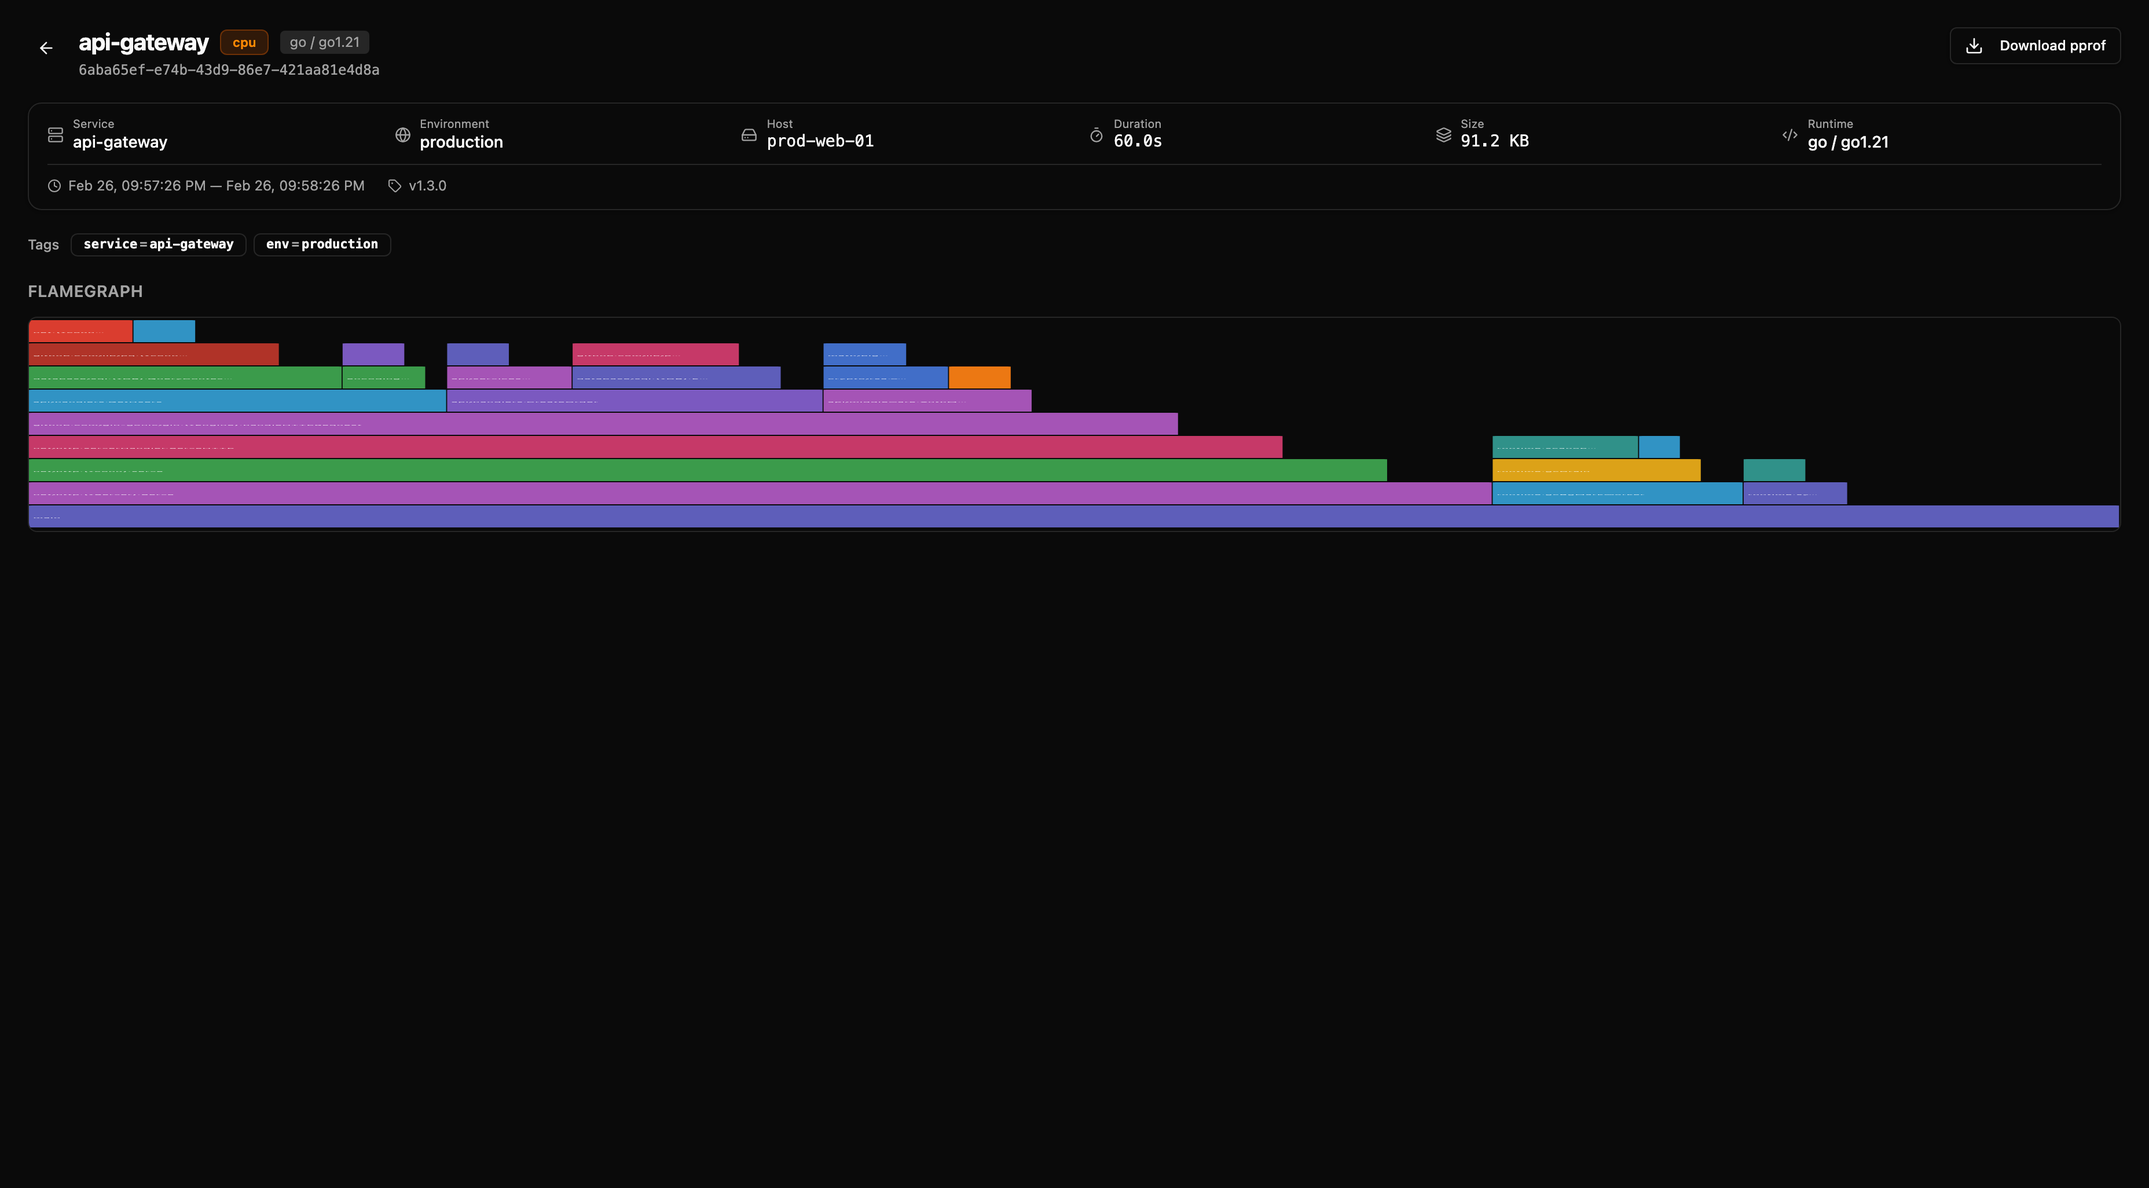
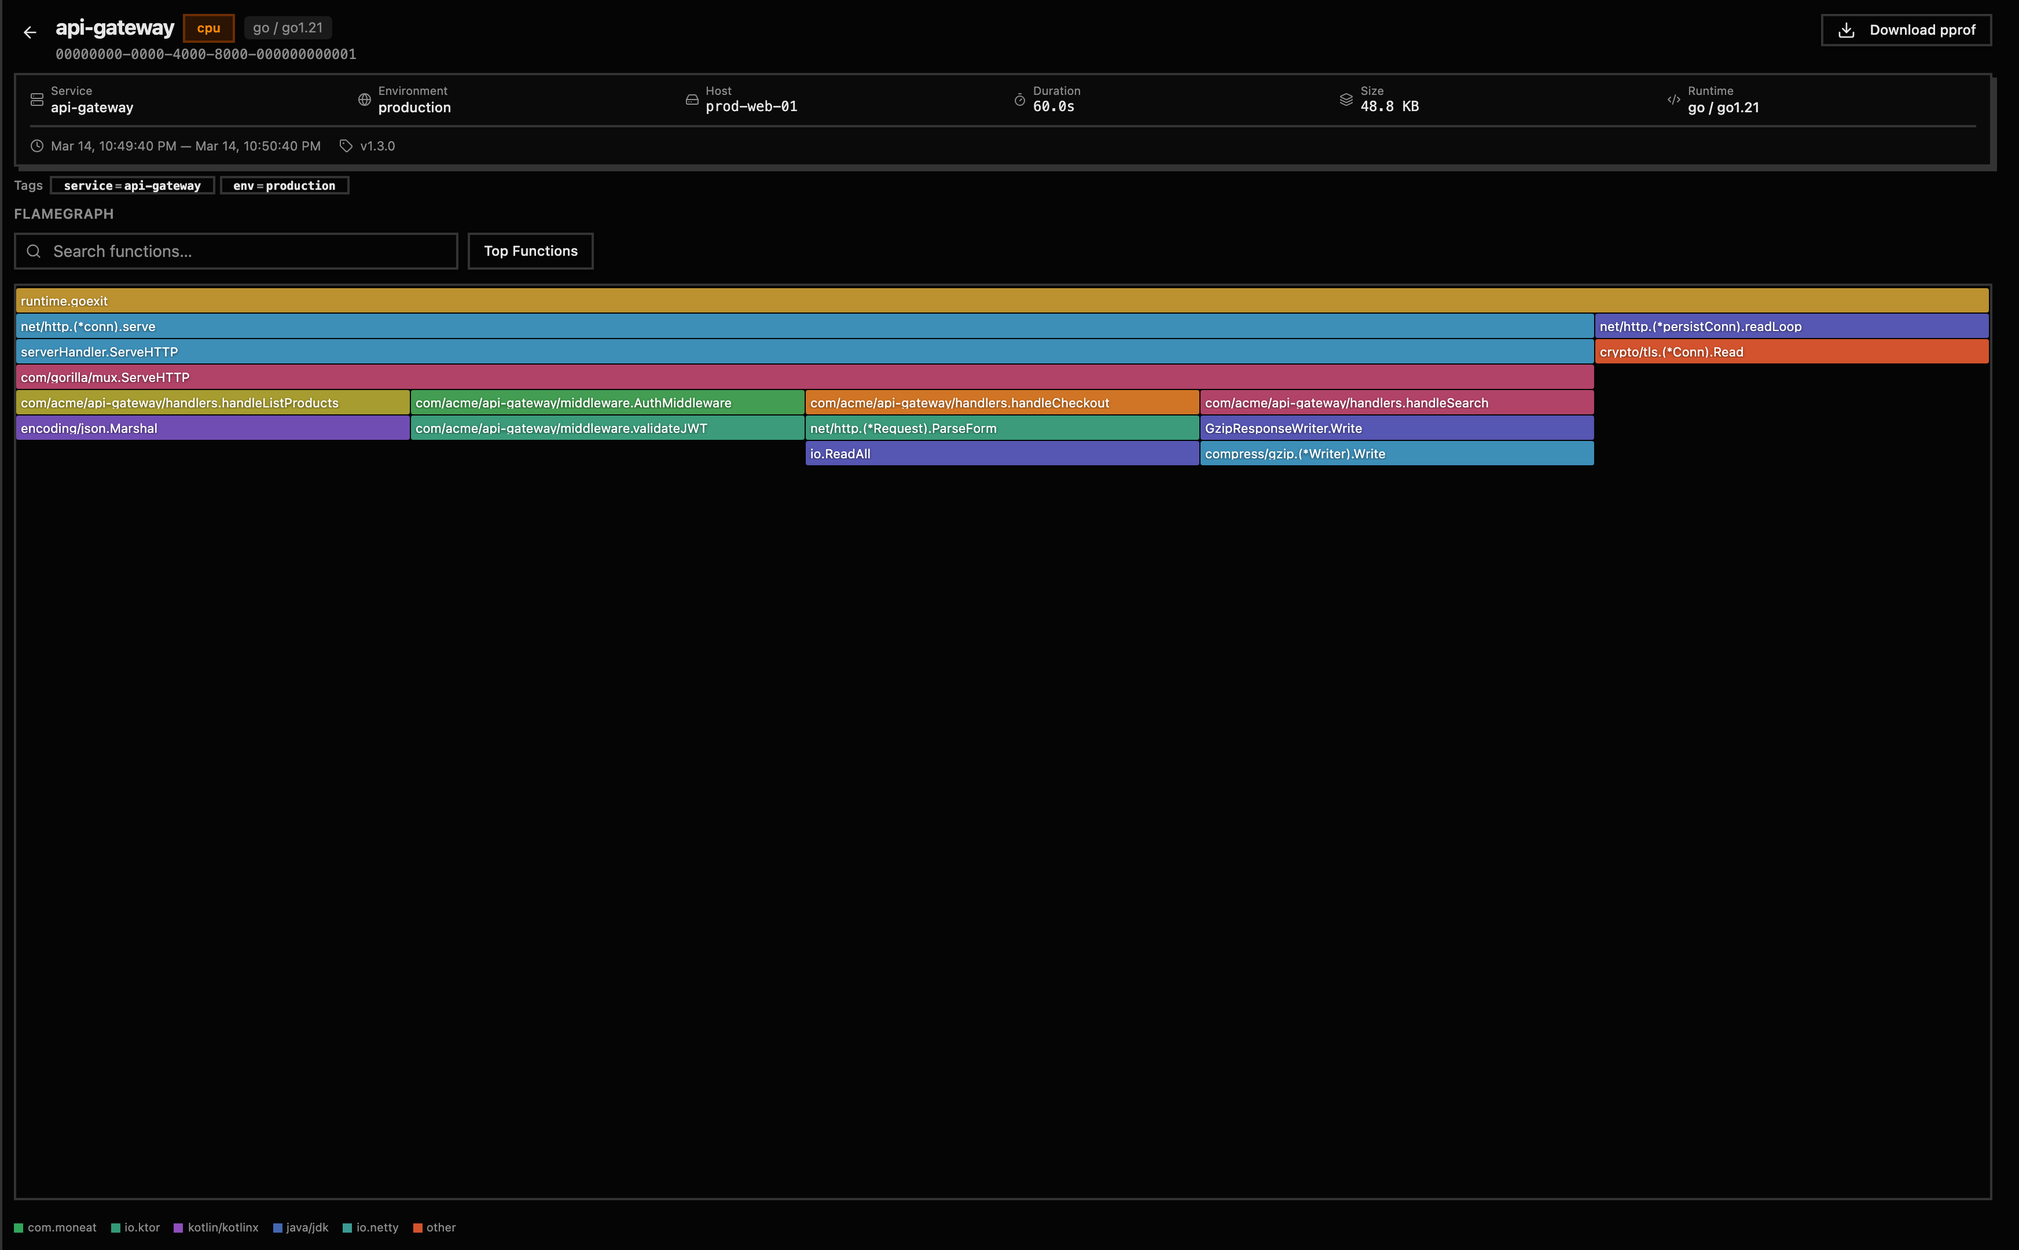
docs: update screenshots

Changed region(s): [[0.0, 0.0, 1.0, 0.4678], [0.0, 0.9357, 0.0312, 0.9981], [0.0938, 0.9669, 0.125, 0.9981]]

diff --git a/scripts/take-screenshots.js b/scripts/take-screenshots.js
@@ -75,23 +75,38 @@ const VIEWPORT = { width: 1920, height: 1080 };
 // Names match page/tab labels for consistency
 const SCREENSHOTS = [
   // ─── Navbar pages ─────────────────────────────────────────────────────
-  { name: 'overview', description: 'Overview / Dashboard', path: '/', waitFor: 'text=Recent Issues', viewport: VIEWPORT },
+  { name: 'dashboard', description: 'Dashboard overview', path: '/', waitFor: 'text=Recent Issues', viewport: VIEWPORT },
   { name: 'issues', description: 'Issues', path: '/issues', waitFor: 'text=Issues', viewport: VIEWPORT },
   { name: 'performance', description: 'Performance', path: '/performance', waitFor: 'text=Performance', viewport: VIEWPORT },
   { name: 'logs', description: 'Logs', path: '/logs', waitFor: 'text=Logs', viewport: VIEWPORT },
-  { name: 'profiles', description: 'Profiles', path: '/profiles', waitFor: 'text=Profiles', viewport: VIEWPORT },
-  { name: 'monitoring', description: 'Monitoring (Hosts)', path: '/monitoring', waitFor: 'text=Monitoring', viewport: VIEWPORT },
+  {
+    name: 'profiles',
+    description: 'Continuous profiling flamegraph',
+    navigate: async (page) => {
+      await page.goto(`${BASE_URL}/profiles`, { waitUntil: 'networkidle' });
+      await page.waitForTimeout(1500);
+      const link = page.locator('a[href^="/profiles/"]').first();
+      if ((await link.count()) > 0) {
+        await link.click();
+        await page.waitForLoadState('networkidle');
+        await page.waitForTimeout(2000);
+      }
+    },
+    waitFor: 'text=Flamegraph',
+    viewport: VIEWPORT,
+  },
   { name: 'uptime', description: 'Uptime', path: '/uptime', waitFor: 'text=Uptime', viewport: VIEWPORT },
-  { name: 'status-pages', description: 'Status Pages list', path: '/status-pages', waitFor: 'text=Status', viewport: VIEWPORT },
+  { name: 'status-pages', description: 'Status Pages', path: '/status-pages', waitFor: 'text=Status', viewport: VIEWPORT },
+  { name: 'status-page-public', description: 'Public status page', path: '/s/acme-status', waitFor: 'text=Status', viewport: VIEWPORT },
   { name: 'dashboards', description: 'Dashboards', path: '/dashboards', waitFor: 'text=Dashboards', viewport: VIEWPORT },
   { name: 'replays', description: 'Replays', path: '/replays', waitFor: 'text=Replays', viewport: VIEWPORT },
+  { name: 'session-replay', description: 'Session replay (alias for replays)', path: '/replays', waitFor: 'text=Replays', viewport: VIEWPORT },
   { name: 'feedback', description: 'Feedback', path: '/feedback', waitFor: 'text=Feedback', viewport: VIEWPORT },
   { name: 'releases', description: 'Releases', path: '/releases', waitFor: 'text=Releases', viewport: VIEWPORT },
   { name: 'ai', description: 'AI', path: '/ai', waitFor: 'text=AI', viewport: VIEWPORT },
   { name: 'security', description: 'Security', path: '/security', waitFor: 'text=Security', viewport: VIEWPORT },
   { name: 'synthetics', description: 'Synthetics', path: '/synthetics', waitFor: 'text=Synthetics', viewport: VIEWPORT },
   { name: 'analytics', description: 'Analytics', path: '/analytics', waitFor: 'text=Analytics', viewport: VIEWPORT },
-  { name: 'projects', description: 'Projects', path: '/projects', waitFor: 'text=Projects', viewport: VIEWPORT },
 
   // ─── On-Call tabs ─────────────────────────────────────────────────────
   { name: 'on-call-overview', description: 'On-Call Overview', path: '/on-call', waitFor: 'text=On-Call', viewport: VIEWPORT },
@@ -100,174 +115,12 @@ const SCREENSHOTS = [
   { name: 'on-call-alerts', description: 'On-Call Alerts', path: '/on-call/incidents', waitFor: 'text=Alerts', viewport: VIEWPORT },
   { name: 'on-call-incidents', description: 'On-Call Incidents', path: '/on-call/declared-incidents', waitFor: 'text=Incidents', viewport: VIEWPORT },
 
-  // ─── Monitoring tabs ──────────────────────────────────────────────────
+  // ─── Monitoring ───────────────────────────────────────────────────────
   { name: 'monitoring-hosts', description: 'Monitoring Hosts', path: '/monitoring', waitFor: 'text=Hosts', viewport: VIEWPORT },
-  { name: 'monitoring-containers', description: 'Monitoring Containers', path: '/monitoring/containers', waitFor: 'text=Containers', viewport: VIEWPORT },
-  { name: 'monitoring-processes', description: 'Monitoring Processes', path: '/monitoring/processes', waitFor: 'text=Processes', viewport: VIEWPORT },
-  { name: 'monitoring-network', description: 'Monitoring Network', path: '/monitoring/network', waitFor: 'text=Network', viewport: VIEWPORT },
-  { name: 'monitoring-events', description: 'Monitoring Events', path: '/monitoring/events', waitFor: 'text=Events', viewport: VIEWPORT },
-  { name: 'monitoring-kubernetes', description: 'Monitoring Kubernetes', path: '/monitoring/kubernetes', waitFor: 'text=Kubernetes', viewport: VIEWPORT },
-  { name: 'monitoring-databases', description: 'Monitoring Databases', path: '/monitoring/databases', waitFor: 'text=Databases', viewport: VIEWPORT },
-  { name: 'monitoring-debugger', description: 'Monitoring Debugger', path: '/monitoring/debugger', waitFor: 'text=Debugger', viewport: VIEWPORT },
-  { name: 'monitoring-network-devices', description: 'Monitoring Network Devices', path: '/monitoring/network-devices', waitFor: 'text=Network Devices', viewport: VIEWPORT },
-  { name: 'monitoring-sbom', description: 'Monitoring SBOM', path: '/monitoring/sbom', waitFor: 'text=SBOM', viewport: VIEWPORT },
-
-  // ─── Status page detail tabs ─────────────────────────────────────────
-  {
-    name: 'status-page-overview',
-    description: 'Status Page Overview tab',
-    navigate: async (page) => {
-      await page.goto(`${BASE_URL}/status-pages`, { waitUntil: 'networkidle' });
-      await page.waitForTimeout(1500);
-      const link = page.locator('a[href^="/status-pages/"]').first();
-      if ((await link.count()) > 0) {
-        await link.click();
-        await page.waitForLoadState('networkidle');
-        await page.waitForTimeout(1500);
-        const tab = page.locator('button[value="overview"]').first();
-        if ((await tab.count()) > 0) await tab.click();
-      }
-    },
-    waitFor: 'text=Overview',
-    viewport: VIEWPORT,
-  },
-  {
-    name: 'status-page-monitors',
-    description: 'Status Page Monitors tab',
-    navigate: async (page) => {
-      await page.goto(`${BASE_URL}/status-pages`, { waitUntil: 'networkidle' });
-      await page.waitForTimeout(1500);
-      const link = page.locator('a[href^="/status-pages/"]').first();
-      if ((await link.count()) > 0) {
-        await link.click();
-        await page.waitForLoadState('networkidle');
-        await page.waitForTimeout(1500);
-        const tab = page.locator('button[value="monitors"]').first();
-        if ((await tab.count()) > 0) await tab.click();
-      }
-    },
-    waitFor: 'text=Monitors',
-    viewport: VIEWPORT,
-  },
-  {
-    name: 'status-page-incidents',
-    description: 'Status Page Incidents tab',
-    navigate: async (page) => {
-      await page.goto(`${BASE_URL}/status-pages`, { waitUntil: 'networkidle' });
-      await page.waitForTimeout(1500);
-      const link = page.locator('a[href^="/status-pages/"]').first();
-      if ((await link.count()) > 0) {
-        await link.click();
-        await page.waitForLoadState('networkidle');
-        await page.waitForTimeout(1500);
-        const tab = page.locator('button[value="incidents"]').first();
-        if ((await tab.count()) > 0) await tab.click();
-      }
-    },
-    waitFor: 'text=Incidents',
-    viewport: VIEWPORT,
-  },
-  {
-    name: 'status-page-domains',
-    description: 'Status Page Domains tab',
-    navigate: async (page) => {
-      await page.goto(`${BASE_URL}/status-pages`, { waitUntil: 'networkidle' });
-      await page.waitForTimeout(1500);
-      const link = page.locator('a[href^="/status-pages/"]').first();
-      if ((await link.count()) > 0) {
-        await link.click();
-        await page.waitForLoadState('networkidle');
-        await page.waitForTimeout(1500);
-        const tab = page.locator('button[value="domains"]').first();
-        if ((await tab.count()) > 0) await tab.click();
-      }
-    },
-    waitFor: 'text=Domains',
-    viewport: VIEWPORT,
-  },
-
-  // ─── Monitoring host detail tabs ─────────────────────────────────────
-  {
-    name: 'monitoring-host-overview',
-    description: 'Monitoring Host Overview tab',
-    navigate: async (page) => {
-      await page.goto(`${BASE_URL}/monitoring`, { waitUntil: 'networkidle' });
-      await page.waitForTimeout(1500);
-      const hostLink = page.locator('a[href^="/monitoring/hosts/"]').first();
-      if ((await hostLink.count()) > 0) {
-        await hostLink.click();
-        await page.waitForLoadState('networkidle');
-        await page.waitForTimeout(1500);
-        const tab = page.locator('button[value="overview"]').first();
-        if ((await tab.count()) > 0) await tab.click();
-      }
-    },
-    waitFor: 'text=Overview',
-    viewport: VIEWPORT,
-  },
-  {
-    name: 'monitoring-host-containers',
-    description: 'Monitoring Host Containers tab',
-    navigate: async (page) => {
-      await page.goto(`${BASE_URL}/monitoring`, { waitUntil: 'networkidle' });
-      await page.waitForTimeout(1500);
-      const hostLink = page.locator('a[href^="/monitoring/hosts/"]').first();
-      if ((await hostLink.count()) > 0) {
-        await hostLink.click();
-        await page.waitForLoadState('networkidle');
-        await page.waitForTimeout(1500);
-        const tab = page.locator('button[value="containers"]').first();
-        if ((await tab.count()) > 0) await tab.click();
-      }
-    },
-    waitFor: 'text=Containers',
-    viewport: VIEWPORT,
-  },
-  {
-    name: 'monitoring-host-network',
-    description: 'Monitoring Host Network tab',
-    navigate: async (page) => {
-      await page.goto(`${BASE_URL}/monitoring`, { waitUntil: 'networkidle' });
-      await page.waitForTimeout(1500);
-      const hostLink = page.locator('a[href^="/monitoring/hosts/"]').first();
-      if ((await hostLink.count()) > 0) {
-        await hostLink.click();
-        await page.waitForLoadState('networkidle');
-        await page.waitForTimeout(1500);
-        const tab = page.locator('button[value="network"]').first();
-        if ((await tab.count()) > 0) await tab.click();
-      }
-    },
-    waitFor: 'text=Network',
-    viewport: VIEWPORT,
-  },
-  {
-    name: 'monitoring-host-alerts',
-    description: 'Monitoring Host Alerts tab',
-    navigate: async (page) => {
-      await page.goto(`${BASE_URL}/monitoring`, { waitUntil: 'networkidle' });
-      await page.waitForTimeout(1500);
-      const hostLink = page.locator('a[href^="/monitoring/hosts/"]').first();
-      if ((await hostLink.count()) > 0) {
-        await hostLink.click();
-        await page.waitForLoadState('networkidle');
-        await page.waitForTimeout(1500);
-        const tab = page.locator('button[value="alerts"]').first();
-        if ((await tab.count()) > 0) await tab.click();
-      }
-    },
-    waitFor: 'text=Alerts',
-    viewport: VIEWPORT,
-  },
-
-  // ─── Public status page (for landing/marketing) ─────────────────────────
-  { name: 'status-page-public', description: 'Public status page', path: '/s/acme-status', waitFor: 'text=Status', viewport: VIEWPORT },
 
   // ─── Legacy names for landing page compatibility ──────────────────────
-  { name: 'dashboard', description: 'Dashboard (alias for overview)', path: '/', waitFor: 'text=Recent Issues', viewport: VIEWPORT },
   { name: 'error-tracking', description: 'Error tracking (alias for issues)', path: '/issues', waitFor: 'text=Issues', viewport: VIEWPORT },
   { name: 'log-management', description: 'Log management (alias for logs)', path: '/logs', waitFor: 'text=Logs', viewport: VIEWPORT },
-  { name: 'session-replay', description: 'Session replay (alias for replays)', path: '/replays', waitFor: 'text=Replays', viewport: VIEWPORT },
   { name: 'containers', description: 'Containers (alias)', path: '/monitoring/containers', waitFor: 'text=Containers', viewport: VIEWPORT },
   { name: 'escalation-policies', description: 'Escalation policies (alias)', path: '/on-call/escalation-policies', waitFor: 'text=Escalation Policies', viewport: VIEWPORT },
   {

diff --git a/dashboard/src/routes/public-status-pages.tsx b/dashboard/src/routes/public-status-pages.tsx
@@ -29,7 +29,7 @@ const config: FeaturePageConfig = {
   iconBg: 'bg-cyan-500/10',
   gradient: 'from-cyan-500 to-teal-400',
   accentColor: 'text-cyan-400',
-  screenshot: '/screenshots/status-pages.png',
+  screenshot: '/screenshots/status-page-public.png',
   screenshotAlt: 'Public status page showing service health and uptime history',
   subFeatures: [
     {icon: Globe, title: 'Custom Domains', description: 'Host your status page on your own domain like status.yourapp.com with automatic SSL.', iconColor: 'text-cyan-400'},

diff --git a/dashboard/src/components/landing/VariantA.tsx b/dashboard/src/components/landing/VariantA.tsx
@@ -209,7 +209,7 @@ const secondaryFeatures: Feature[] = [
     gradient: 'from-cyan-500 to-teal-400',
     iconBg: 'bg-cyan-500/10',
     iconColor: 'text-cyan-400',
-    mock: <img src="/screenshots/status-pages.png" alt="Public status page showing service health and incidents" className="w-full h-full object-cover" />,
+    mock: <img src="/screenshots/status-page-public.png" alt="Public status page showing service health and incidents" className="w-full h-full object-cover" />,
   },
   {
     icon: Phone,

diff --git a/scripts/update-landing-screenshots.js b/scripts/update-landing-screenshots.js
@@ -38,7 +38,7 @@ const SCREENSHOT_MAPPING = {
     alt: 'Uptime monitoring with status checks and availability metrics',
   },
   'StatusPagesMock': {
-    screenshot: 'status-pages.png',
+    screenshot: 'status-page-public.png',
     alt: 'Public status page showing service health and incidents',
   },
   'AlertingMock': {

diff --git a/README.md b/README.md
@@ -114,16 +114,17 @@ Works with `@sentry/browser`, `@sentry/node`, `@sentry/react`, `@sentry/nextjs`,
 
 ## Screenshots
 
+<details>
+<summary><b>View screenshots</b></summary>
+
+### Core Observability
+
 <p align="center">
-  <img src="dashboard/public/screenshots/dashboard.png" alt="Moneat Dashboard" width="800">
+  <img src="dashboard/public/screenshots/dashboard.png" alt="Dashboard Overview" width="800">
 </p>
 
 <p align="center">
-  <img src="dashboard/public/screenshots/error-tracking.png" alt="Error Monitoring" width="800">
-</p>
-
-<p align="center">
-  <img src="dashboard/public/screenshots/session-replay.png" alt="Session Replay" width="800">
+  <img src="dashboard/public/screenshots/issues.png" alt="Error Tracking / Issues" width="800">
 </p>
 
 <p align="center">
@@ -131,17 +132,102 @@ Works with `@sentry/browser`, `@sentry/node`, `@sentry/react`, `@sentry/nextjs`,
 </p>
 
 <p align="center">
-  <img src="dashboard/public/screenshots/log-management.png" alt="Log Management" width="800">
+  <img src="dashboard/public/screenshots/logs.png" alt="Log Management" width="800">
 </p>
 
 <p align="center">
-  <img src="dashboard/public/screenshots/uptime.png" alt="Uptime Monitoring" width="400">
-  <img src="dashboard/public/screenshots/status-pages.png" alt="Status Pages" width="400">
+  <img src="dashboard/public/screenshots/replays.png" alt="Session Replay" width="800">
 </p>
 
 <p align="center">
-  <img src="dashboard/public/screenshots/escalation-policies.png" alt="Escalation Policies" width="800">
+  <img src="dashboard/public/screenshots/profiles.png" alt="Continuous Profiling" width="800">
 </p>
+
+<p align="center">
+  <img src="dashboard/public/screenshots/dashboards.png" alt="Custom Dashboards" width="800">
+</p>
+
+### Infrastructure & Monitoring
+
+<p align="center">
+  <img src="dashboard/public/screenshots/monitoring-hosts.png" alt="Monitoring Hosts" width="800">
+</p>
+
+<p align="center">
+  <img src="dashboard/public/screenshots/uptime.png" alt="Uptime Monitoring" width="800">
+</p>
+
+<p align="center">
+  <img src="dashboard/public/screenshots/status-pages.png" alt="Status Pages" width="800">
+</p>
+
+### Enterprise: On-Call
+
+<p align="center">
+  <img src="dashboard/public/screenshots/on-call-overview.png" alt="On-Call Overview" width="800">
+</p>
+
+<p align="center">
+  <img src="dashboard/public/screenshots/on-call-schedules.png" alt="On-Call Schedules" width="800">
+</p>
+
+<p align="center">
+  <img src="dashboard/public/screenshots/on-call-escalation-policies.png" alt="Escalation Policies" width="800">
+</p>
+
+<p align="center">
+  <img src="dashboard/public/screenshots/on-call-alerts.png" alt="On-Call Alerts" width="800">
+</p>
+
+<p align="center">
+  <img src="dashboard/public/screenshots/on-call-incidents.png" alt="On-Call Incidents" width="800">
+</p>
+
+### Status Pages
+
+<p align="center">
+  <img src="dashboard/public/screenshots/status-pages.png" alt="Custom Status Page" width="800">
+</p>
+
+<p align="center">
+  <img src="dashboard/public/screenshots/status-page-public.png" alt="Public Status Page" width="800">
+</p>
+
+### Insights & Analytics
+
+<p align="center">
+  <img src="dashboard/public/screenshots/analytics.png" alt="Product Analytics" width="800">
+</p>
+
+<p align="center">
+  <img src="dashboard/public/screenshots/ai.png" alt="AI Observability" width="800">
+</p>
+
+<p align="center">
+  <img src="dashboard/public/screenshots/feedback.png" alt="User Feedback" width="800">
+</p>
+
+<p align="center">
+  <img src="dashboard/public/screenshots/releases.png" alt="Releases" width="800">
+</p>
+
+### APM & Tracing
+
+<p align="center">
+  <img src="dashboard/public/screenshots/apm-traces.png" alt="APM Traces" width="800">
+</p>
+
+### Security & Synthetics
+
+<p align="center">
+  <img src="dashboard/public/screenshots/security.png" alt="Security & SBOM" width="800">
+</p>
+
+<p align="center">
+  <img src="dashboard/public/screenshots/synthetics.png" alt="Synthetics" width="800">
+</p>
+
+</details>
 
 
 ## Telemetry
